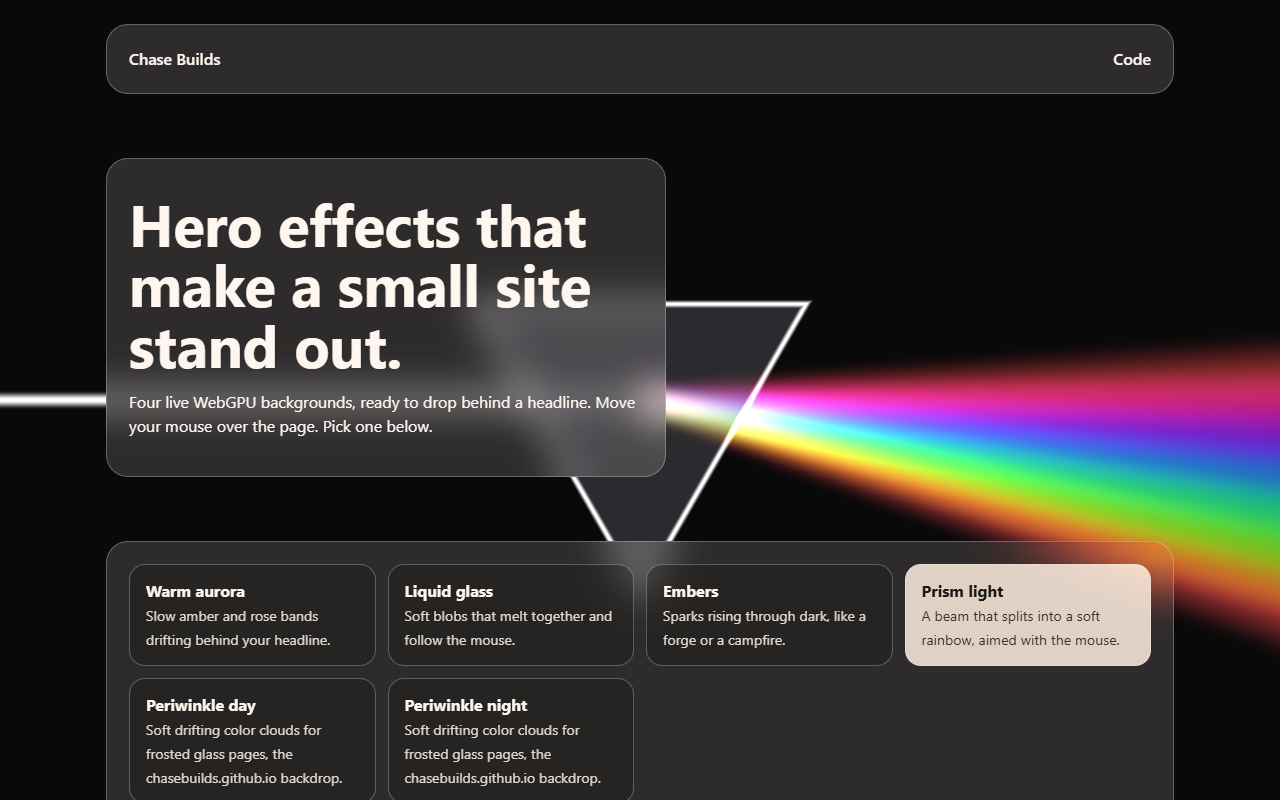
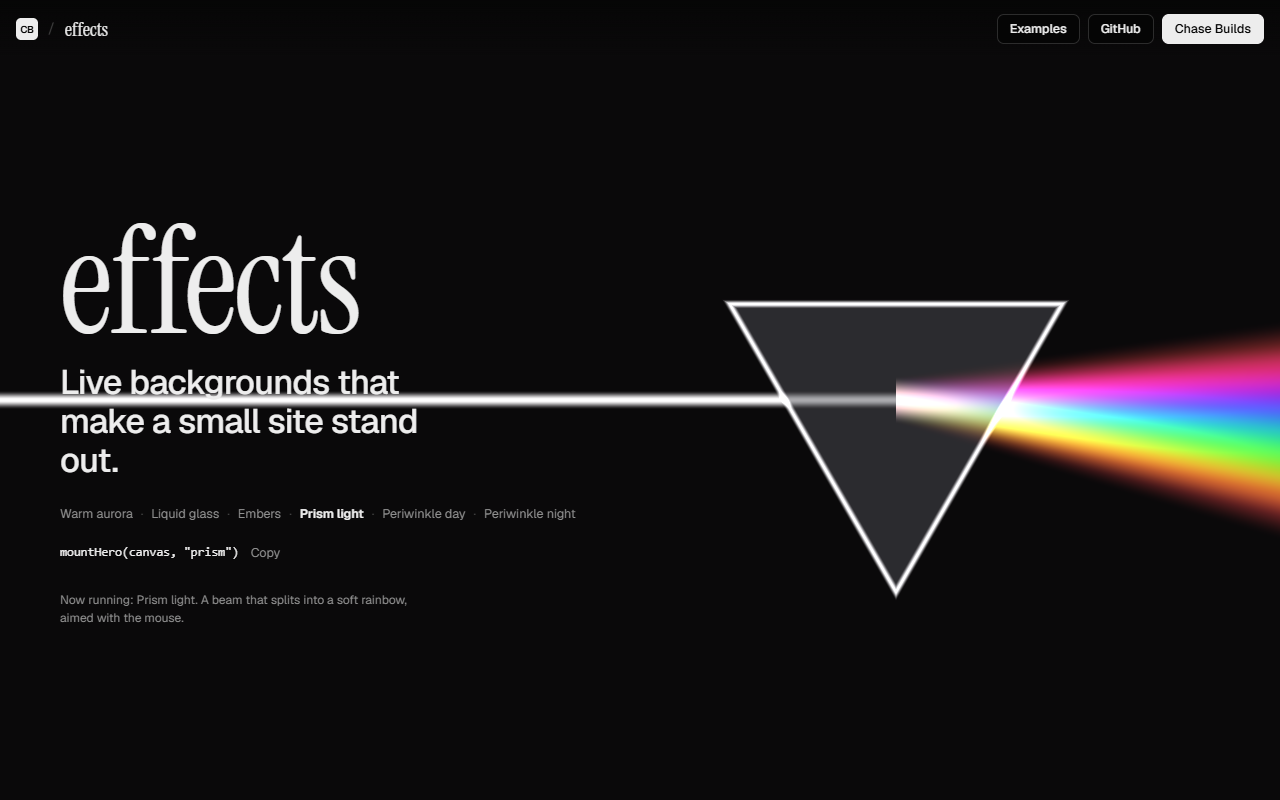
Restyle effects demo after vgpu.sh, make it work on phones

diff --git a/chasebuilds/effects/index.html b/chasebuilds/effects/index.html
@@ -1,60 +1,144 @@
 <!doctype html>
 <html lang="en">
 <head>
-<meta charset="utf-8"><meta name="viewport" content="width=device-width,initial-scale=1">
-<title>Chase Builds Hero Effects</title>
-<meta name="description" content="Four WebGPU hero backgrounds for small business sites, built on vgpu.">
+<meta charset="utf-8">
+<meta name="viewport" content="width=device-width,initial-scale=1,viewport-fit=cover">
+<title>Chase Builds Effects</title>
+<meta name="description" content="Six live WebGPU backgrounds for small business sites, built on vgpu by Chase Builds.">
+<meta name="theme-color" content="#050505">
+<link rel="preconnect" href="https://fonts.googleapis.com"><link rel="preconnect" href="https://fonts.gstatic.com" crossorigin>
+<link href="https://fonts.googleapis.com/css2?family=Geist:wght@400;500;600&family=Geist+Mono&family=Instrument+Serif&display=swap" rel="stylesheet">
 <style>
-:root{--ink:#1b1714;--glass:rgba(255,248,240,.14);--line:rgba(255,240,225,.28);--txt:#fff7ef}
-*{box-sizing:border-box}html,body{margin:0;background:#1b1714;color:var(--txt);font:16px/1.5 system-ui,Segoe UI,sans-serif}
-canvas{position:fixed;inset:0;width:100vw;height:100vh;display:block;background:radial-gradient(120% 90% at 30% 20%,#7a3b22,#2a1812 60%,#1b1714)}
-main{position:relative;min-height:100vh;display:flex;flex-direction:column;justify-content:space-between;padding:24px 16px;max-width:1100px;margin:auto;pointer-events:none}
-.panel{pointer-events:auto;background:var(--glass);backdrop-filter:blur(18px) saturate(1.3);-webkit-backdrop-filter:blur(18px) saturate(1.3);border:1px solid var(--line);border-radius:22px;padding:22px}
-nav{display:flex;justify-content:space-between;align-items:center;border-radius:999px;padding:10px 18px}
-nav a{color:var(--txt);text-decoration:none;font-weight:600}
-h1{font-size:clamp(2rem,6vw,3.6rem);line-height:1.05;margin:.2em 0}
-.hero{max-width:560px;margin:8vh 0}
-.picks{display:grid;grid-template-columns:repeat(auto-fit,minmax(200px,1fr));gap:12px}
-button{all:unset;cursor:pointer;display:block;padding:14px 16px;border-radius:16px;border:1px solid var(--line);background:rgba(27,23,20,.35);color:var(--txt)}
-button[aria-pressed=true]{background:rgba(255,240,225,.85);color:var(--ink)}
-button b{display:block}button span{font-size:.88rem;opacity:.85}
-#note{font-size:.85rem;opacity:.8;margin-top:12px}
-code{background:rgba(0,0,0,.35);padding:2px 6px;border-radius:6px}
+:root{--bg:#050505;--panel:#0d0d0d;--line:#1f1f1f;--line-2:#2c2c2c;--txt:#ededed;--dim:#8f8f8f;--chip:#1a1a1a}
+*{box-sizing:border-box}
+html{-webkit-text-size-adjust:100%}
+body{margin:0;background:var(--bg);color:var(--txt);font:14px/1.55 Geist,system-ui,sans-serif;-webkit-font-smoothing:antialiased;overflow-x:hidden}
+a{color:inherit}
+.bar{position:fixed;top:0;left:0;right:0;z-index:10;display:flex;align-items:center;justify-content:space-between;padding:14px max(16px,env(safe-area-inset-right)) 14px max(16px,env(safe-area-inset-left));background:linear-gradient(rgba(5,5,5,.85),transparent)}
+.crumb{display:flex;align-items:center;gap:10px;text-decoration:none}
+.mark{display:grid;place-items:center;width:22px;height:22px;border-radius:5px;background:var(--txt);color:var(--bg);font:600 10px Geist,sans-serif;letter-spacing:-.02em}
+.slash{color:#444}
+.word{font:20px/1 "Instrument Serif",Georgia,serif}
+.bar nav{display:flex;gap:8px}
+.pill{display:inline-flex;align-items:center;height:30px;padding:0 12px;border-radius:7px;border:1px solid var(--line-2);background:var(--bg);font-size:12.5px;font-weight:500;text-decoration:none}
+.pill.solid{background:var(--txt);color:var(--bg);border-color:var(--txt)}
+#c{position:fixed;inset:0;width:100vw;height:100vh;display:block;z-index:0;background:radial-gradient(60% 50% at 70% 40%,#3a2418,#050505 70%)}
+.hero{position:relative;z-index:1;min-height:100vh;min-height:100svh;display:flex;flex-direction:column;justify-content:center;padding:96px 20px 40px;max-width:1200px;margin:0 auto;pointer-events:none}
+.hero h1{margin:0;font:400 clamp(72px,16vw,148px)/.9 "Instrument Serif",Georgia,serif;letter-spacing:-.02em}
+.hero h2{margin:14px 0 18px;font-weight:500;font-size:clamp(22px,4.4vw,34px);line-height:1.15;letter-spacing:-.02em;max-width:16ch}
+.tabs{display:flex;gap:6px 8px;flex-wrap:wrap;font-size:12.5px;color:var(--dim);pointer-events:auto}
+.tabs button{all:unset;cursor:pointer;padding:6px 0}
+.tabs button[aria-selected=true]{color:var(--txt);font-weight:600}
+.tabs span{color:#444;padding:6px 0}
+.cmd{margin-top:8px;font:12.5px "Geist Mono",monospace;pointer-events:auto;display:flex;gap:12px;align-items:center;flex-wrap:wrap}
+.cmd button{all:unset;cursor:pointer;color:var(--dim);font-family:Geist,sans-serif;padding:6px 0}
+.now{margin-top:24px;font-size:12px;color:var(--dim);max-width:46ch}
+.ex{position:relative;z-index:2;background:var(--bg);border-top:1px solid var(--line)}
+.ex-in{display:grid;grid-template-columns:200px minmax(0,1fr);gap:48px;max-width:1200px;margin:0 auto;padding:64px 20px 96px}
+.side{position:sticky;top:72px;align-self:start;display:flex;flex-direction:column;gap:2px}
+.side a{padding:6px 0;font-size:12.5px;font-weight:500;color:var(--dim);text-decoration:none}
+.side a:hover,.side a[aria-current=true]{color:var(--txt)}
+.ex h3{margin:0;font-weight:600;font-size:clamp(28px,5vw,36px);letter-spacing:-.03em}
+.ex .sub{margin:8px 0 28px;color:var(--dim);max-width:60ch}
+.grid{display:grid;grid-template-columns:repeat(2,minmax(0,1fr));gap:16px}
+.card{all:unset;box-sizing:border-box;cursor:pointer;display:flex;flex-direction:column;border:1px solid var(--line);border-radius:10px;overflow:hidden;background:var(--panel);transition:border-color .15s}
+.card:hover,.card:focus-visible{border-color:#555}
+.card img{display:block;width:100%;height:auto;aspect-ratio:16/10;object-fit:cover;background:#111}
+.card .body{padding:12px 14px 14px}
+.card b{display:block;font-weight:600;font-size:14px}
+.card p{margin:4px 0 10px;color:var(--dim);font-size:12.5px;line-height:1.45}
+.tags{display:flex;gap:6px;flex-wrap:wrap}
+.tags i{font-style:normal;font-size:11px;font-weight:500;padding:2px 8px;border-radius:999px;background:var(--chip);border:1px solid var(--line-2)}
+.use{margin-top:48px;padding:16px;border:1px solid var(--line);border-radius:10px;background:var(--panel);overflow-x:auto}
+.use pre{margin:0;font:12.5px/1.6 "Geist Mono",monospace;color:#cfcfcf}
+footer{position:relative;z-index:2;background:var(--bg);border-top:1px solid var(--line);padding:24px 20px calc(24px + env(safe-area-inset-bottom));color:var(--dim);font-size:12px;text-align:center}
+.toast{position:fixed;left:50%;bottom:24px;transform:translate(-50%,20px);opacity:0;transition:.2s;z-index:20;background:var(--txt);color:var(--bg);padding:8px 14px;border-radius:8px;font-size:12.5px;font-weight:500;pointer-events:none}
+.toast.on{opacity:1;transform:translate(-50%,0)}
+@media (max-width:760px){
+  .ex-in{grid-template-columns:minmax(0,1fr);gap:0;padding:44px 16px 72px}
+  .side{display:none}
+  .grid{grid-template-columns:minmax(0,1fr)}
+  .bar .pill:not(.solid){display:none}
+  .hero{padding:88px 16px 40px;justify-content:flex-end}
+}
+@media (prefers-reduced-motion:reduce){.card,.toast{transition:none}}
 </style>
 </head>
 <body>
-<canvas id="c"></canvas>
-<main>
-  <nav class="panel"><a href="https://chasebuilds.github.io">Chase Builds</a><a href="https://github.com/chasebuilds/vgpu/tree/canary/chasebuilds/effects">Code</a></nav>
-  <section class="hero panel">
-    <h1>Hero effects that make a small site stand out.</h1>
-    <p>Six live WebGPU backgrounds, ready to drop behind a headline. Move your mouse over the page. Pick one below.</p>
-  </section>
-  <section class="panel">
-    <div class="picks" id="picks"></div>
-    <p id="note">Use it: <code>mountHero(canvas, "aurora")</code> from <code>hero.js</code>. Browsers without WebGPU keep the canvas's CSS gradient.</p>
-  </section>
-</main>
+<canvas id="c" aria-hidden="true"></canvas>
+<header class="bar">
+  <a class="crumb" href="https://chasebuilds.github.io"><span class="mark">CB</span><span class="slash">/</span><span class="word">effects</span></a>
+  <nav><a class="pill" href="#examples">Examples</a><a class="pill" href="https://github.com/chasebuilds/vgpu/tree/canary/chasebuilds/effects">GitHub</a><a class="pill solid" href="https://chasebuilds.github.io">Chase Builds</a></nav>
+</header>
+
+<section class="hero">
+  <h1>effects</h1>
+  <h2>Live backgrounds that make a small site stand out.</h2>
+  <div class="tabs" role="tablist" id="tabs"></div>
+  <div class="cmd"><code id="snippet"></code><button id="copy" type="button">Copy</button></div>
+  <p class="now" id="now"></p>
+</section>
+
+<section class="ex" id="examples">
+  <div class="ex-in">
+    <nav class="side" id="side" aria-label="Effects"></nav>
+    <div>
+      <h3>Examples</h3>
+      <p class="sub">Six fullscreen WebGPU shaders built on <a href="https://vgpu.sh">vgpu</a>. Tap one to run it behind the page, then move your mouse or drag a finger to steer it.</p>
+      <div class="grid" id="grid"></div>
+      <div class="use"><pre>&lt;canvas id="hero" style="background:#1b1714"&gt;&lt;/canvas&gt;
+&lt;script type="module"&gt;
+  import { mountHero } from "https://chasebuilds.github.io/vgpu/chasebuilds/effects/hero.js";
+  mountHero(document.getElementById("hero"), "embers");
+&lt;/script&gt;</pre></div>
+    </div>
+  </div>
+</section>
+<footer>Built by Chase Builds on <a href="https://github.com/vercel-labs/vgpu">vgpu</a> (MIT, by Vercel Labs). Browsers without WebGPU see a still gradient.</footer>
+<div class="toast" id="toast" role="status"></div>
+
 <script type="module">
 import { EFFECTS } from "./effects.js";
 import { mountHero } from "./hero.js";
-const picks = document.getElementById("picks");
-let hero;
-const choose = (key) => {
-  for (const b of picks.children) b.setAttribute("aria-pressed", b.dataset.key === key);
-  hero?.use(key);
-};
-for (const [key, e] of Object.entries(EFFECTS)) {
-  const b = document.createElement("button");
-  b.dataset.key = key;
-  b.innerHTML = `<b>${e.name}</b><span>${e.blurb}</span>`;
-  b.onclick = () => choose(key);
-  picks.append(b);
+const TAGS = { aurora: ["fbm", "bands", "warm"], glass: ["metaballs", "pointer"], embers: ["particles", "hash grid"], prism: ["light", "pointer"], periwinkle: ["backdrop", "light"], periwinkleNight: ["backdrop", "dark"] };
+const $ = (id) => document.getElementById(id);
+const keys = Object.keys(EFFECTS);
+let hero, current;
+const snippetFor = (k) => `mountHero(canvas, "${k}")`;
+function choose(k, scroll) {
+  current = k;
+  hero?.use(k);
+  for (const b of $("tabs").querySelectorAll("button")) b.setAttribute("aria-selected", b.dataset.k === k);
+  for (const a of $("side").children) a.setAttribute("aria-current", a.dataset.k === k);
+  $("snippet").textContent = snippetFor(k);
+  $("now").textContent = hero ? `Now running: ${EFFECTS[k].name}. ${EFFECTS[k].blurb}` : "WebGPU is not available in this browser, so the background is a still gradient. Try Chrome, Edge or a recent Safari.";
+  history.replaceState(null, "", "#" + k);
+  if (scroll) scrollTo({ top: 0, behavior: matchMedia("(prefers-reduced-motion: reduce)").matches ? "auto" : "smooth" });
 }
-try { hero = await mountHero(document.getElementById("c"), "aurora"); }
-catch (err) { console.error(err); }
-if (!hero) document.getElementById("note").textContent = "WebGPU is not available in this browser, so you are seeing the fallback gradient. Try Chrome or Edge.";
-choose("aurora");
+keys.forEach((k, i) => {
+  const e = EFFECTS[k];
+  if (i) $("tabs").insertAdjacentHTML("beforeend", "<span>·</span>");
+  const t = document.createElement("button");
+  t.type = "button"; t.role = "tab"; t.dataset.k = k; t.textContent = e.name; t.onclick = () => choose(k);
+  $("tabs").append(t);
+  const a = document.createElement("a");
+  a.href = "#" + k; a.dataset.k = k; a.textContent = e.name;
+  a.onclick = (ev) => { ev.preventDefault(); choose(k, true); };
+  $("side").append(a);
+  const c = document.createElement("button");
+  c.type = "button"; c.className = "card";
+  c.innerHTML = `<img src="thumbs/${k}.jpg" alt="" loading="lazy" width="640" height="400"><div class="body"><b>${e.name}</b><p>${e.blurb}</p><div class="tags">${TAGS[k].map((t) => `<i>${t}</i>`).join("")}</div></div>`;
+  c.onclick = () => choose(k, true);
+  $("grid").append(c);
+});
+$("copy").onclick = async () => {
+  try { await navigator.clipboard.writeText(snippetFor(current)); } catch {}
+  $("toast").textContent = "Copied"; $("toast").classList.add("on");
+  setTimeout(() => $("toast").classList.remove("on"), 1200);
+};
+const start = keys.includes(location.hash.slice(1)) ? location.hash.slice(1) : "prism";
+try { hero = await mountHero($("c"), start); } catch (err) { console.error(err); }
+choose(start);
 </script>
 </body>
 </html>

diff --git a/chasebuilds/effects/hero.js b/chasebuilds/effects/hero.js
@@ -6,13 +6,16 @@ import { EFFECTS } from "./effects.js";
 export async function mountHero(canvas, name = "aurora") {
   if (!navigator.gpu) return null;
   const gpu = await init();
-  const surf = surface(gpu, canvas, { dpr: [1, 2] });
+  const surf = surface(gpu, canvas, { dpr: [1, matchMedia("(pointer: coarse)").matches ? 1.5 : 2] });
   const mouse = [0.5, 0.5];
-  canvas.addEventListener("pointermove", (e) => {
+  // Window-level so the pointer still steers the effect when text or panels sit on top; works for touch drags too.
+  const track = (e) => {
     const r = canvas.getBoundingClientRect();
     mouse[0] = (e.clientX - r.left) / r.width;
     mouse[1] = 1 - (e.clientY - r.top) / r.height;
-  });
+  };
+  addEventListener("pointermove", track, { passive: true });
+  addEventListener("pointerdown", track, { passive: true });
   const cache = {};
   const make = (n) => (cache[n] ??= effect(gpu, prepareShader(EFFECTS[n].wgsl), { set: { params: { res: surf.size, mouse, time: 0 } } }));
   let fx = make(name);

diff --git a/chasebuilds/effects/effects.js b/chasebuilds/effects/effects.js
@@ -75,7 +75,10 @@ export const EFFECTS = {
     blurb: "A beam that splits into a soft rainbow, aimed with the mouse.",
     wgsl: HEAD + /* wgsl */ `
 @fragment fn fs_main(@location(0) uv: vec2f) -> @location(0) vec4f {
-  let p = aspectUv(uv);
+  let a = params.res.x / params.res.y;
+  // Sit right of the headline on wide screens, above it on phones.
+  let off = select(vec2f(0.0, -0.24), vec2f(a * 0.2, 0.0), a > 1.0);
+  let p = (aspectUv(uv) - off) * select(1.8, 1.0, a > 1.0);
   let ang = (params.mouse.y - 0.5) * 0.6 + 0.08 * sin(params.time * 0.5);
   var col = vec3f(0.04, 0.035, 0.04);
   let beamIn = smoothstep(0.012, 0.0, abs(p.y - ang * 0.0)) * step(p.x, 0.0);
